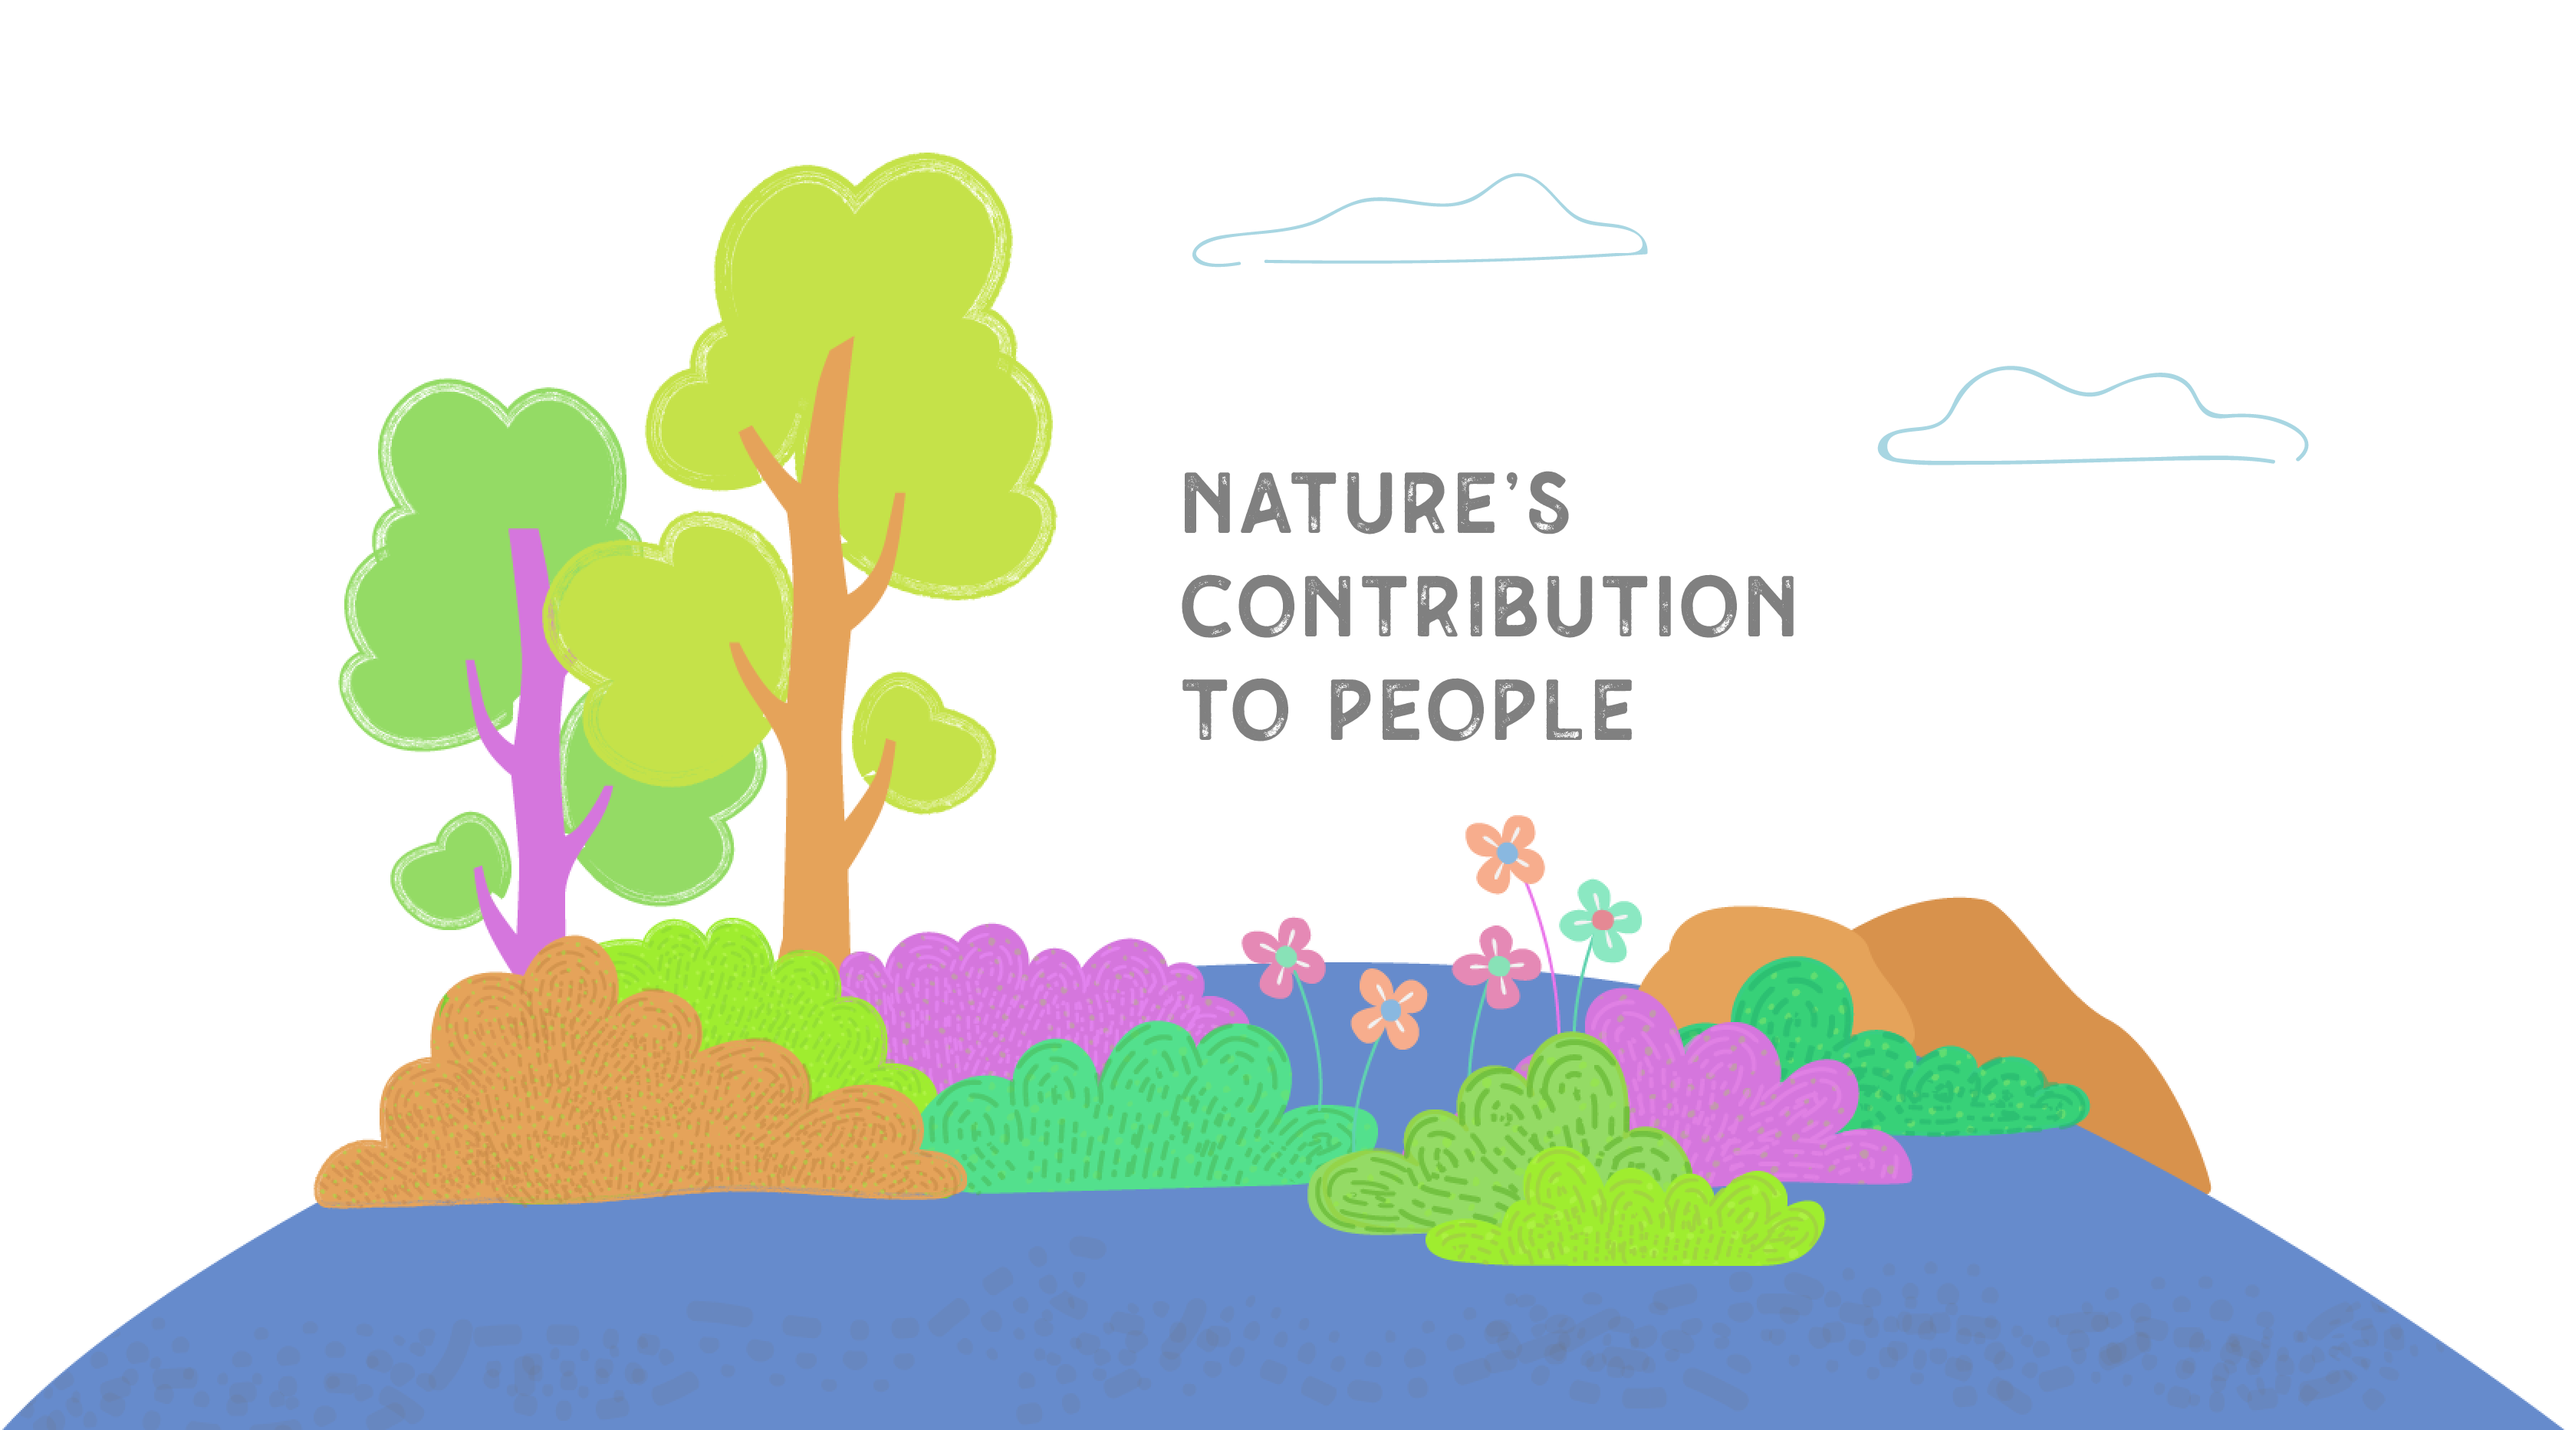
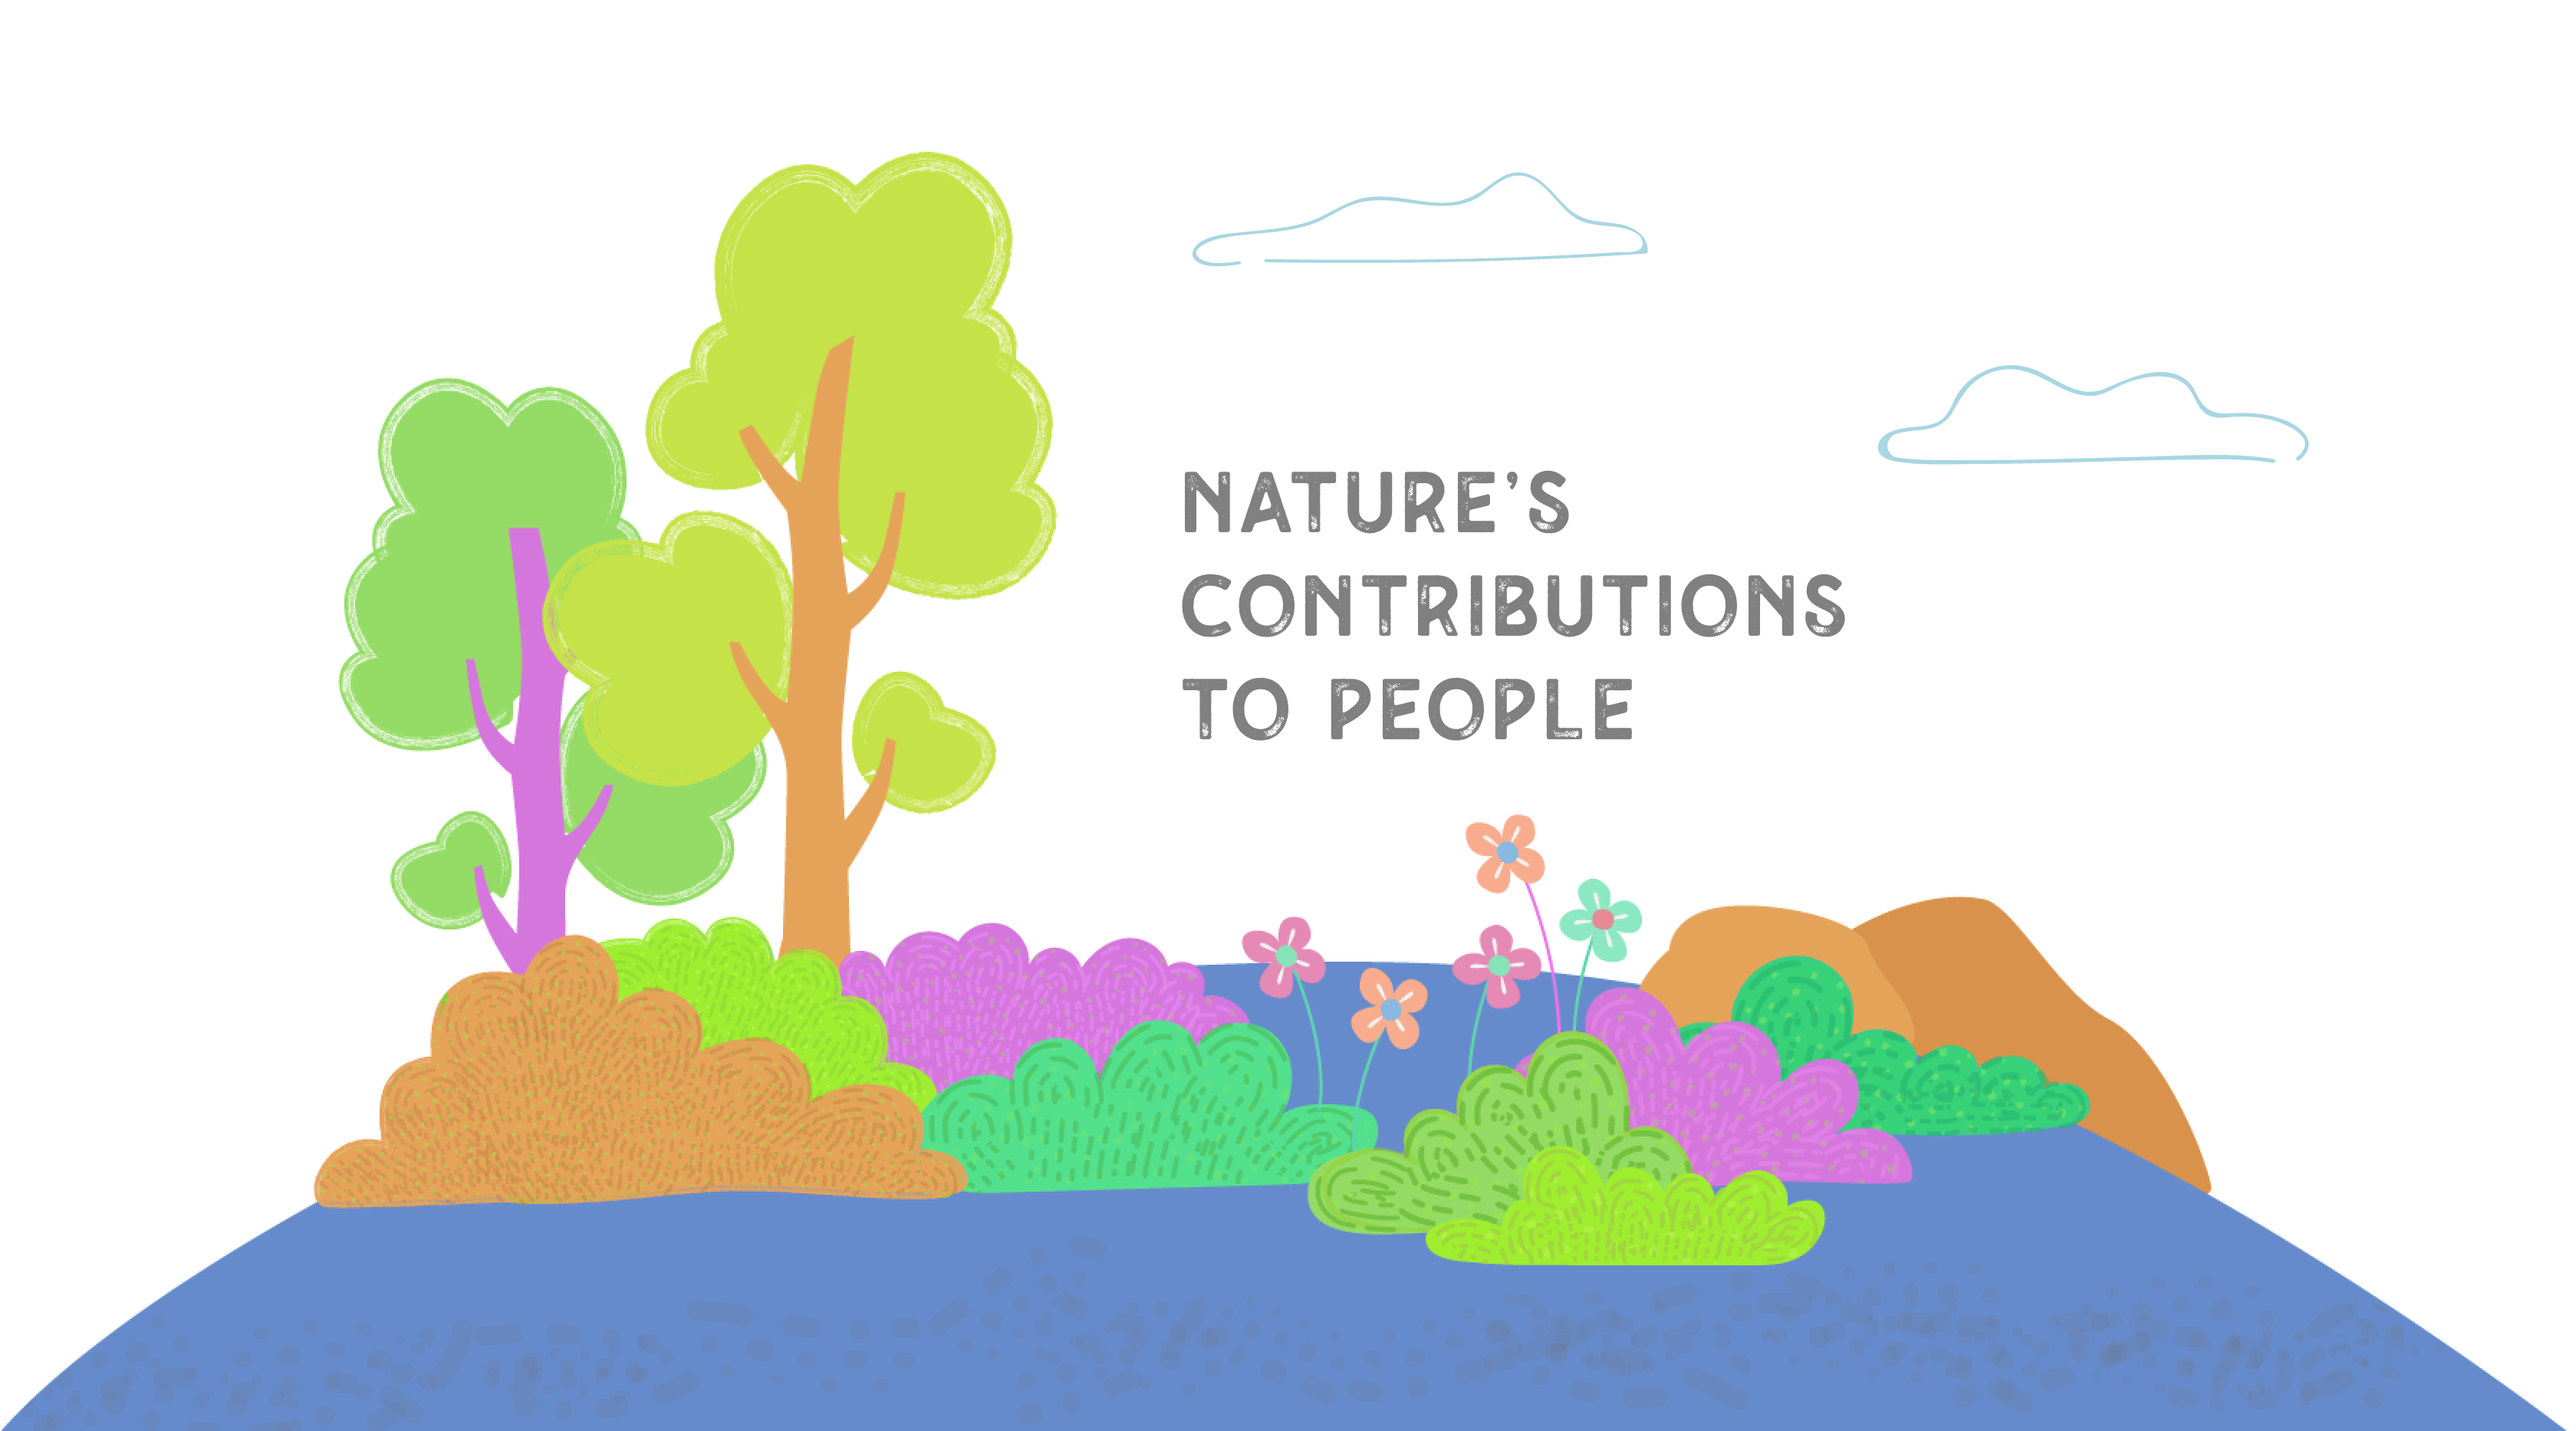
fixed spelling in contribution, added gsap and scrolltrigger

diff --git a/nuxt.config.js b/nuxt.config.js
@@ -12,6 +12,10 @@ export default {
         ],
         link: [
             { rel: 'icon', type: 'image/x-icon', href: '/favicon.ico' }
+        ],
+        script: [
+            { src: "https://cdnjs.cloudflare.com/ajax/libs/gsap/3.6.0/gsap.min.js" },
+            { src: "https://cdnjs.cloudflare.com/ajax/libs/ScrollTrigger/1.0.5/ScrollTrigger.min.js" }
         ]
     },
 

diff --git a/components/ThumbnailModule.vue b/components/ThumbnailModule.vue
@@ -44,6 +44,10 @@ export default {
         return this.$style.module
       }
     }
+  },
+  mounted(){
+    const tl = gsap.timeline();
+    tl.to(".", {duration: 10, x: 50, y: 0, opacity:0})
   }
 }
 </script>
